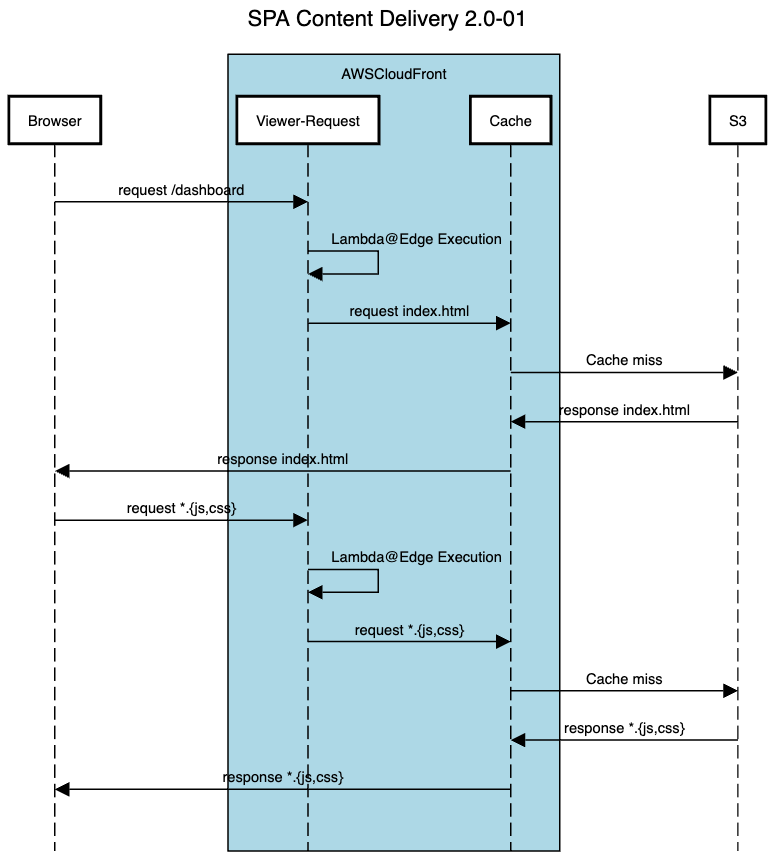
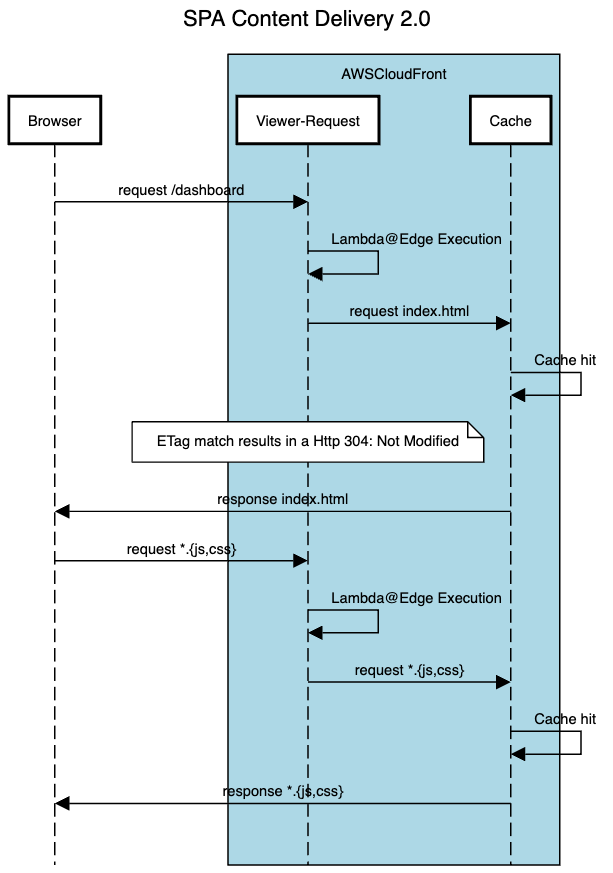
TTFB -- Paraphrase: 4

diff --git a/_posts/2024-02-08-optimizing-ttfb.md b/_posts/2024-02-08-optimizing-ttfb.md
@@ -56,7 +56,7 @@ Single Page Applications require a specific kind of routing where each registere
 
 ![Static Content Delivery 1.0](/assets/img/2024-02-08-img-04.png)
 
-## Limitations of our current Content Delivery setup
+## Limitations of the current Content Delivery setup
 
 Chalking this on a whiteboard, I realized there are several problems with our setup:
 
@@ -101,11 +101,11 @@ The next target was to minimize the `cache miss` illustrated in the diagrams abo
 
 The `no-store` not allowing anything to be stored made the `no-cache` and `must-revalidate` directives practically useless. Worth mentioning that `must-revalidate` always should be used with `max-age` to help the cache identify fresh content. In short, the configuration was completely broken. 
 
-By setting `Cache-Control` header to `must-revalidate max-age=604800`, CloudFront served the cached responses until a reasonable amount of time (7 days) has passed or there is new content available. On each new release, we programmatically invalidated all CloudFront caches to ensure the new release always results in fresh content for our users. Here it what it looked like:
+By setting `Cache-Control` header to `must-revalidate max-age=604800`, CloudFront served the cached responses until a reasonable amount of time (7 days) has passed or there is new content available. Setting the correct cache headers also enabled `ETag` on each request resulting in a `Http 304 Not Modified` if the content did not change. For new releases, we programmatically invalidated all CloudFront caches to ensure the new release always results in fresh content for our users. Here it what it looked like:
 
 ![SPA Content Delivery 2.0](/assets/img/2024-02-08-img-08.png)
 
-## Interesting discovery - Lambda@Edge vs CloudFront Functions
+## Icing on the cake - CloudFront Functions
 While monitoring the logs I noticed that all content is being served from Frankfurt. With most of our customer base in Saudi Arabia, not serving content from Mumbai (our deployment region) was definitely a win. I wondered if there were still a few more millisecond I could reduce by serving from an `Edge Location` instead of a `Regional Edge Cache`.
 
 > **tl;dr** `Edge Location` serves content with reduced latency because it is nearer to the users as compared to the `Regional Edge Cache`.
